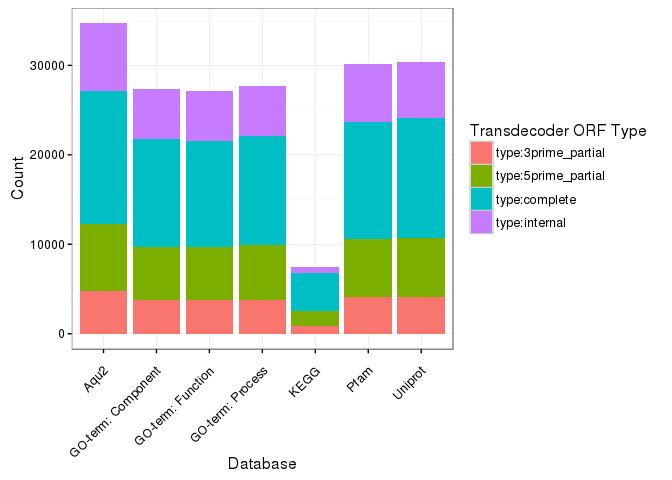
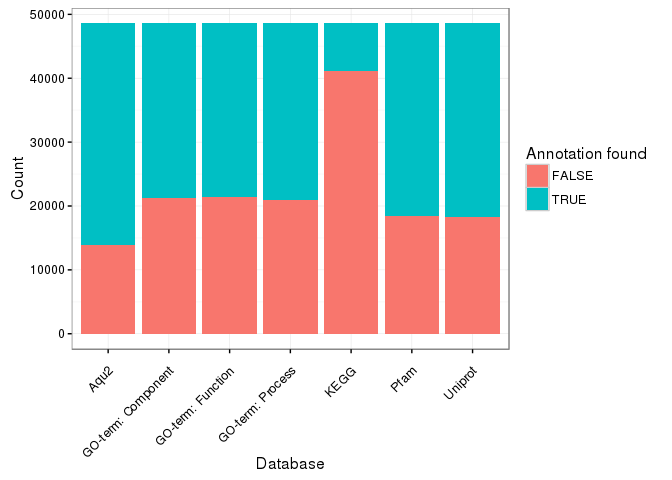
add more annotation figures

diff --git a/Manuscript/CBAS_DeSeq2_Analysis.md b/Manuscript/CBAS_DeSeq2_Analysis.md
@@ -44,7 +44,7 @@ Transcriptome assembly, annotation
 
 Reads were quality controled using FastQC [6] and quality filtered using the BioLite program filter\_illumina.cpp [7]. The surviving read pairs from all libraries were used to produce (using the command cat) two fastq files that were used for *de novo* transcriptome assembly in Trinity v2.0.6 (using the --normalize\_reads flag). The resulting contigs (with lenght &gt;=200bp) were annotated against the Uniprot (SwissProt) [8] and *Amphimedon queenslandica* isoforms (AQU2 proteins) [9] using blastx v2.2.29+ with an expectation cutoff of 0.001. Only the best match per contig was saved and the blast results were saved using blast's XML format converted to a 25 column table [10]. Both tables (i.e. [UNIPROT](https://github.com/sevragorgia/CBAS/tree/master/Annotations/Uniprot) and [AQU2](https://github.com/sevragorgia/CBAS/tree/master/Annotations/AQU2)) are available for download in the [project repository](https://github.com/sevragorgia/CBAS). Gene Ontology [11] annotations for the CBAS transcriptome were obtained by programmatically querying the [QuickGO Webservice](http://www.ebi.ac.uk/QuickGO/) with the transcriptome's UNIPROT annotations [12] and a custom [perl script](https://github.com/sevragorgia/CBAS/blob/master/Scripts/Get_GO_Annotations.pl). For each CBAS transcript the "component", "function" and "process" GO terms associated with its UNIPROT best match were stored in the [project repository](https://github.com/sevragorgia/CBAS/tree/master/Annotations/GOs) as independent tab-separated files that can be easily modified to use as input files in TopGO [13].
 
-In addition, transcripts were translated using the program TransDecoder.LongOrfs [14] and the resulting cds, mRNA, bed, gff3 and pep files stored in the [project repository](https://github.com/sevragorgia/CBAS/tree/master/Annotations/Transdecoder) and used to annotated the transcriptome against the [Pfam](http://pfam.xfam.org/) and [KEEG](http://www.genome.jp/kegg/) databases. For this, the perl script [pfam\_scan.pl](ftp://ftp.ebi.ac.uk/pub/databases/Pfam/Tools/) and the webservice [BlastKOALA](http://www.kegg.jp/blastkoala/) were used; the resulting output files can be found in the [project repository.](https://github.com/sevragorgia/CBAS) Finally, the assembled transcripts were blasted (blastn) against a bacterial genomes database [15].
+In addition, transcripts were translated using the program TransDecoder.LongOrfs [14] and the resulting cds, mRNA, bed, gff3 and pep files stored in the [project repository](https://github.com/sevragorgia/CBAS/tree/master/Annotations/Transdecoder) and used to annotate the transcriptome against the [Pfam](http://pfam.xfam.org/) and [KEEG](http://www.genome.jp/kegg/) databases. For this, the perl script [pfam\_scan.pl](ftp://ftp.ebi.ac.uk/pub/databases/Pfam/Tools/) and the webservice [BlastKOALA](http://www.kegg.jp/blastkoala/) were used; the resulting output files can be found in the [project repository.](https://github.com/sevragorgia/CBAS) Finally, the assembled transcripts were blasted (blastn) against a bacterial genomes database [15].
 
 All annotations were used to build an [annotation meta-table](https://github.com/sevragorgia/CBAS/blob/master/Annotations/Metatable/) using a [custom made perl script](https://github.com/sevragorgia/CBAS/blob/master/Scripts/Create_Transcriptome_Annotation_Table.pl) available in the project repository.
 
@@ -92,7 +92,7 @@ Per library, we obtained on average 26,385,834 (\(\pm 3,360,778\)) pairs of read
 |        8        |  Bleached |    24,166,051   |      22,655,601     |   93.75   |
 | **Total Reads** |           | **211,086,672** |   **199,536,668**   | **94.53** |
 
-*De novo* transcriptome assembly using the concatenated dataset resulted in 128,686 transcript \(\gt 200\)bp. The N50 of the transcriptome was 1,281 bp, and the median lenght of the assembled transcripts was 453 (MAD=0.2078891). More details about the assembly can be found in Table 2 and the length distribution of the transcripts can be visualized in Figure 1.
+*De novo* transcriptome assembly using the concatenated dataset resulted in 128,686 transcript \(\gt 200\)bp. The N50 of the transcriptome was 1,281 bp, and the median lenght of the assembled transcripts was 453 bp (MAD=0.2078891). More details about the assembly can be found in Table 2 and the length distribution of the transcripts can be visualized in Figure 1.
 
 **Table 2: Statistics for the *de novo* assembled CBAS transcriptome**
 
@@ -114,7 +114,7 @@ Per library, we obtained on average 26,385,834 (\(\pm 3,360,778\)) pairs of read
 
 ------------------------------------------------------------------------
 
-Of the collection of transcripts, 37.75% could be translated into proteins by Transdecoder. The majority of the translated transcripts were *Complete ORFs*, according to Transdecoder. The *Transdecoder ORF Types* distribution of these transcripts can be found in Table 3.
+Of the collection of transcripts, 37.75% could be translated into proteins by Transdecoder. The majority of the translated transcripts were *Complete ORFs*, according to Transdecoder. The *Transdecoder ORF Types* distribution of the translated transcripts can be found in Table 3.
 
 **Table 3: *Transdecoder ORF Type* of the translated transcripts.**
 
@@ -124,14 +124,17 @@ Of the collection of transcripts, 37.75% could be translated into proteins by Tr
 | 5' partial | 10535 | 21.69 |
 |  Internal  | 13473 | 27.74 |
 |  Complete  | 17833 | 36.71 |
+|    Total   | 48575 |  100  |
 
-Regarding the annotation of the assembled transcripts, 29.44% had a matching *Uniprot* annotation. The number of transcripts matching an *Amphimedon queenslandica* (AQU2) protein was slightly higher, 36.21%. Gene Ontology Component, Function and Process annotations, respectively, could be retrieved for 26.3%, 26.49% and 26.76% of the transcripts. 23.45% of the transcripts could be annotated with Pfam domain information. In contrast, only 5.8% of the assembled transcripts could be annotated against the KEGG database.
+Regarding the annotation of the assembled transcripts, 29.44% had a matching *Uniprot* annotation. The number of transcripts matching an *Amphimedon queenslandica* (AQU2) protein was slightly higher, 36.21%. *Gene Ontology Component*, *Function* and *Process* annotations could be retrieved for 26.3%, 26.49% and 26.76% of the transcripts, respectively. Additionally, 23.45% of the transcripts could be annotated with *Pfam* domain information. In contrast, only 5.8% of the assembled transcripts could be annotated against the *KEGG* database. Figure 3 shows, by *ORF Type*, the number of protein coding transcripts that could be annotated in each database.
 
 ------------------------------------------------------------------------
 
-<img src="CBAS_DeSeq2_Analysis_files/figure-markdown_github/unnamed-chunk-4-1.png" style="display: block; margin: auto;" />
+<img src="CBAS_DeSeq2_Analysis_files/figure-markdown_github/unnamed-chunk-4-1.png" style="display: block; margin: auto;" /> **Figure 3.** Annotation success by database for transcripts translated by Transdecoder.
 
-**Figure 3.** Annotation count by database .
+------------------------------------------------------------------------
+
+<img src="CBAS_DeSeq2_Analysis_files/figure-markdown_github/unnamed-chunk-5-1.png" style="display: block; margin: auto;" /> **Figure 4.** Annotation count by database for different types of ORF as defined by Transdecoder.
 
 ------------------------------------------------------------------------
 
